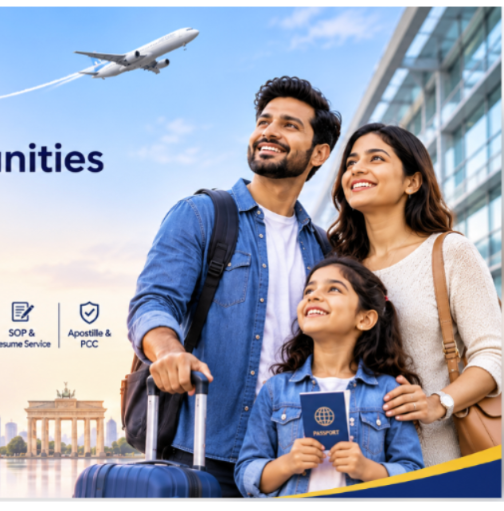
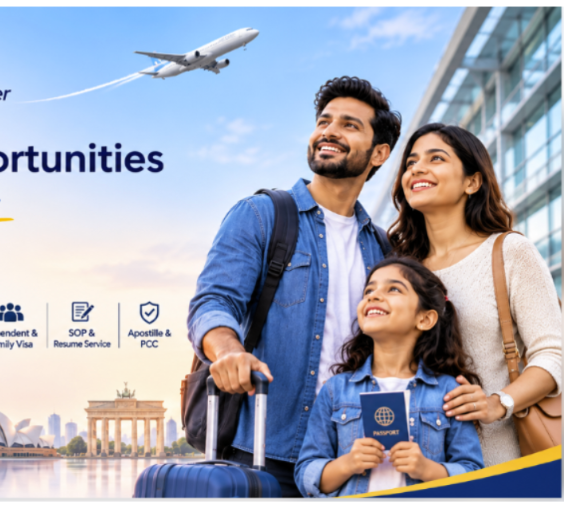
feat: restore reference hero layout and update right outcome card with family travel visual

diff --git a/index.html b/index.html
@@ -138,23 +138,77 @@ src="https://www.facebook.com/tr?id=1627324715484709&ev=PageView&noscript=1"
 
     <!-- Main Content -->
     <div class="main-content">
-        <!-- 1. HOME HERO BANNER SECTION (MATCHING SUVIRA CONFIDENCE BANNER) -->
-        <section class="hero suvira-confidence-hero" id="home">
-            <div class="suvira-banner-wrapper">
-                <div class="suvira-banner-card">
-                    <img src="images/suvira-hero-banner.png" alt="Explore Global Opportunities with Confidence - Suvira Immigration" class="suvira-banner-img" loading="eager">
-                    <!-- Interactive Hotspot for Free Consultation button in banner -->
-                    <button class="suvira-banner-cta-hotspot" onclick="document.getElementById('leadModal').style.display='flex'" title="Book Free Consultation" aria-label="Book Free Consultation"></button>
+        <!-- 1. HOME SECTION -->
+        <section class="hero hero-gradient" id="home"
+            style="padding-top: 110px !important; padding-bottom: 85px !important;">
+            <!-- Animated Map Dots -->
+            <div class="map-dots-container">
+                <div class="pulse-dot canada" title="Canada"></div>
+                <div class="pulse-dot europe" title="Germany & UK"></div>
+                <div class="pulse-dot india" title="Global HQ"></div>
+                <div class="pulse-dot australia" title="Australia"></div>
+            </div>
+            <div class="container hero-container" style="align-items: center !important;">
+                <div class="hero-content">
+                    <div class="greentree-hero-badge"><i class="fas fa-shield-alt"></i> PREMIER IMMIGRATION &amp; VISA CONSULTANTS</div>
+
+                    <h1 class="hero-title"
+                        style="font-size: 2.7rem; font-weight: 800; margin-bottom: 8px; color: white; line-height: 1.15; font-family: 'Outfit', sans-serif;">
+                        Best Immigration and Visa Consultants</h1>
+                    <div
+                        style="font-size: 1.65rem; color: #F87034; font-weight: 800; margin-bottom: 18px; font-family: 'Outfit', sans-serif;">
+                        For <span class="greentree-typewriter" id="typewriterDestination">Canada PR</span></div>
+                    <p class="hero-subtitle"
+                        style="font-size: 1.12rem; color: rgba(255, 255, 255, 0.9); margin-bottom: 30px; font-weight: 400; line-height: 1.65; max-width: 580px;">
+                        Our 100% Error-Free Protocol ensures a smooth, completely transparent process for your global immigration journey!
+                    </p>
+
+                    <div class="hero-features-pill">
+                        <div class="feature-pill">
+                            <i class="fas fa-check-circle" style="color: #10B981;"></i>
+                            Free Eligibility Assessment
+                        </div>
+                        <div class="feature-pill">
+                            <i class="fas fa-check-circle" style="color: #10B981;"></i>
+                            Licensed RCIC &amp; MARA Liaisor
+                        </div>
+                        <div class="feature-pill">
+                            <i class="fas fa-check-circle" style="color: #10B981;"></i>
+                            Zero Hidden Costs
+                        </div>
+                    </div>
+
+                    <div class="hero-btns" style="justify-content: flex-start; gap: 15px; flex-wrap: wrap;">
+                        <button onclick="document.getElementById('leadModal').style.display='flex'"
+                            style="display:inline-flex;align-items:center;gap:10px;padding:14px 28px;background:#F87034;color:#FFFFFF;border:none;border-radius:12px;font-size:15px;font-weight:800;cursor:pointer;font-family:'Outfit',sans-serif;box-shadow:0 6px 20px rgba(248,112,52,0.4);transition:all 0.25s;">
+                            Book Free Consultation ✈
+                        </button>
+                        <a href="https://wa.me/919940352086" target="_blank" rel="noopener noreferrer"
+                            style="display:inline-flex;align-items:center;gap:8px;padding:14px 26px;border:1.5px solid rgba(255,255,255,.45);border-radius:12px;color:#fff;text-decoration:none;font-size:14.5px;font-weight:700;font-family:'Outfit',sans-serif;background:rgba(255,255,255,0.08);transition:all 0.25s;">
+                            <i class="fab fa-whatsapp" style="color:#25D366;font-size:1.15rem;"></i> WhatsApp Us
+                        </a>
+                    </div>
                 </div>
 
-                <!-- Mobile Enhanced Action Bar -->
-                <div class="hero-mobile-cta-bar">
-                    <button onclick="document.getElementById('leadModal').style.display='flex'" class="hero-mobile-btn primary">
-                        <i class="fas fa-paper-plane"></i> Book Free Consultation
-                    </button>
-                    <a href="https://wa.me/919940352086" target="_blank" rel="noopener noreferrer" class="hero-mobile-btn whatsapp">
-                        <i class="fab fa-whatsapp"></i> WhatsApp Us
-                    </a>
+                <div class="hero-graphic"
+                    style="position: relative; width: 100%; max-width: 550px; margin: 0 auto; display: flex; align-items: center;">
+                    <!-- High-Premium Outcome Frame with Family Travel Visual -->
+                    <div
+                        style="border-radius: 24px; overflow: hidden; box-shadow: 0 20px 50px rgba(15, 23, 42, 0.35); border: 3px solid rgba(255, 255, 255, 0.25); position: relative; background: #0724A8; width: 100%; margin: 0 auto; display: flex; flex-direction: column;">
+                        <img src="images/suvira-logo-transparent.png" class="overlay-logo" alt="Suvira Immigration">
+                        <img src="images/hero-family-travel.png" alt="Explore Global Opportunities with Confidence - Suvira Immigration"
+                            style="width: 100% !important; height: auto !important; display: block !important; object-fit: cover !important;">
+
+                        <div
+                            style="position: absolute; bottom: 0; inset-x: 0; background: linear-gradient(to top, rgba(3, 17, 105, 0.95), transparent); padding: 22px 20px; color: white; text-align: left;">
+                            <div
+                                style="display: inline-flex; align-items: center; gap: 8px; background: rgba(37, 211, 102, 0.2); border: 1px solid #25D366; padding: 4px 12px; border-radius: 20px; font-size: 0.78rem; font-weight: 700; color: #25D366; margin-bottom: 6px;">
+                                <i class="fas fa-check-circle"></i> VERIFIED VISA GRANT
+                            </div>
+                            <h4 style="font-size: 1.1rem; font-weight: 800; margin: 0; color: white;">Explore Global Opportunities with Confidence</h4>
+                            <p style="font-size: 0.84rem; color: rgba(255,255,255,0.9); margin: 3px 0 0;">Direct Express Entry, Chancenkarte &amp; Permanent Residency</p>
+                        </div>
+                    </div>
                 </div>
             </div>
         </section>
